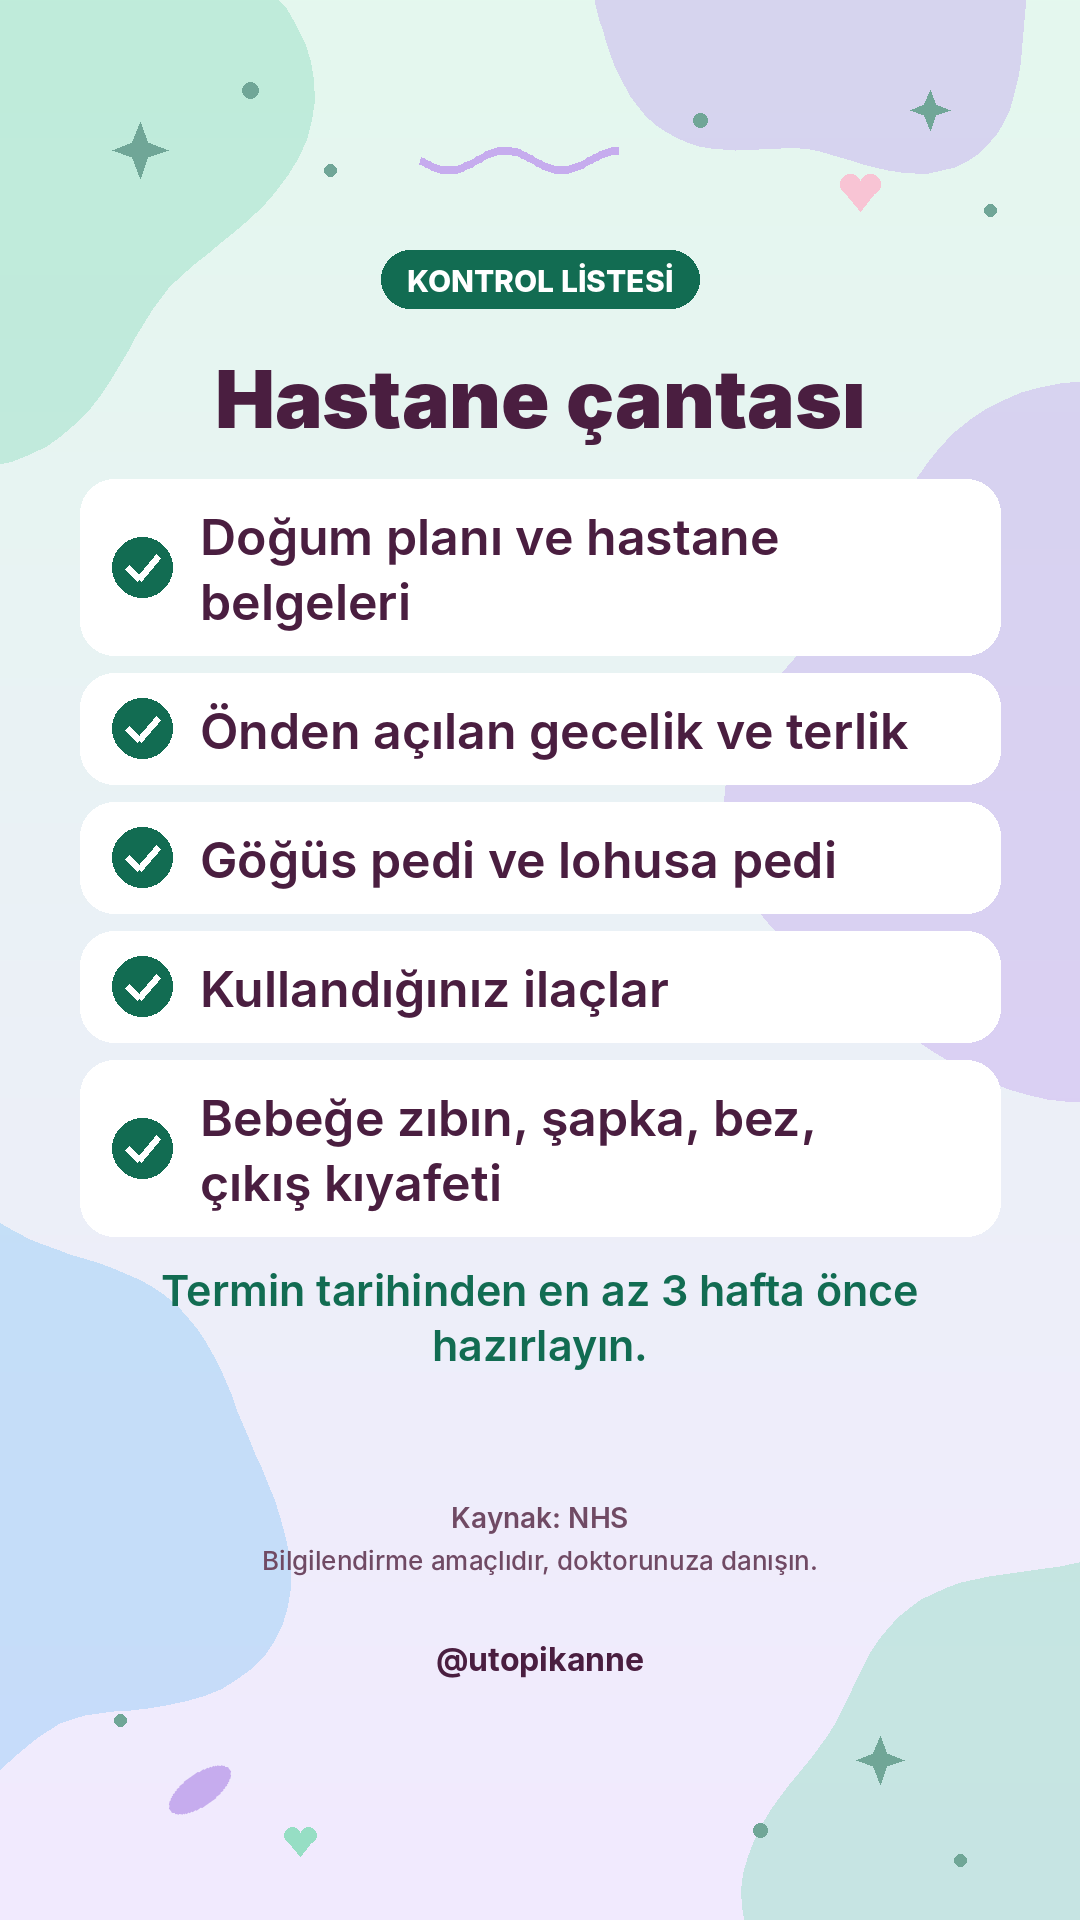
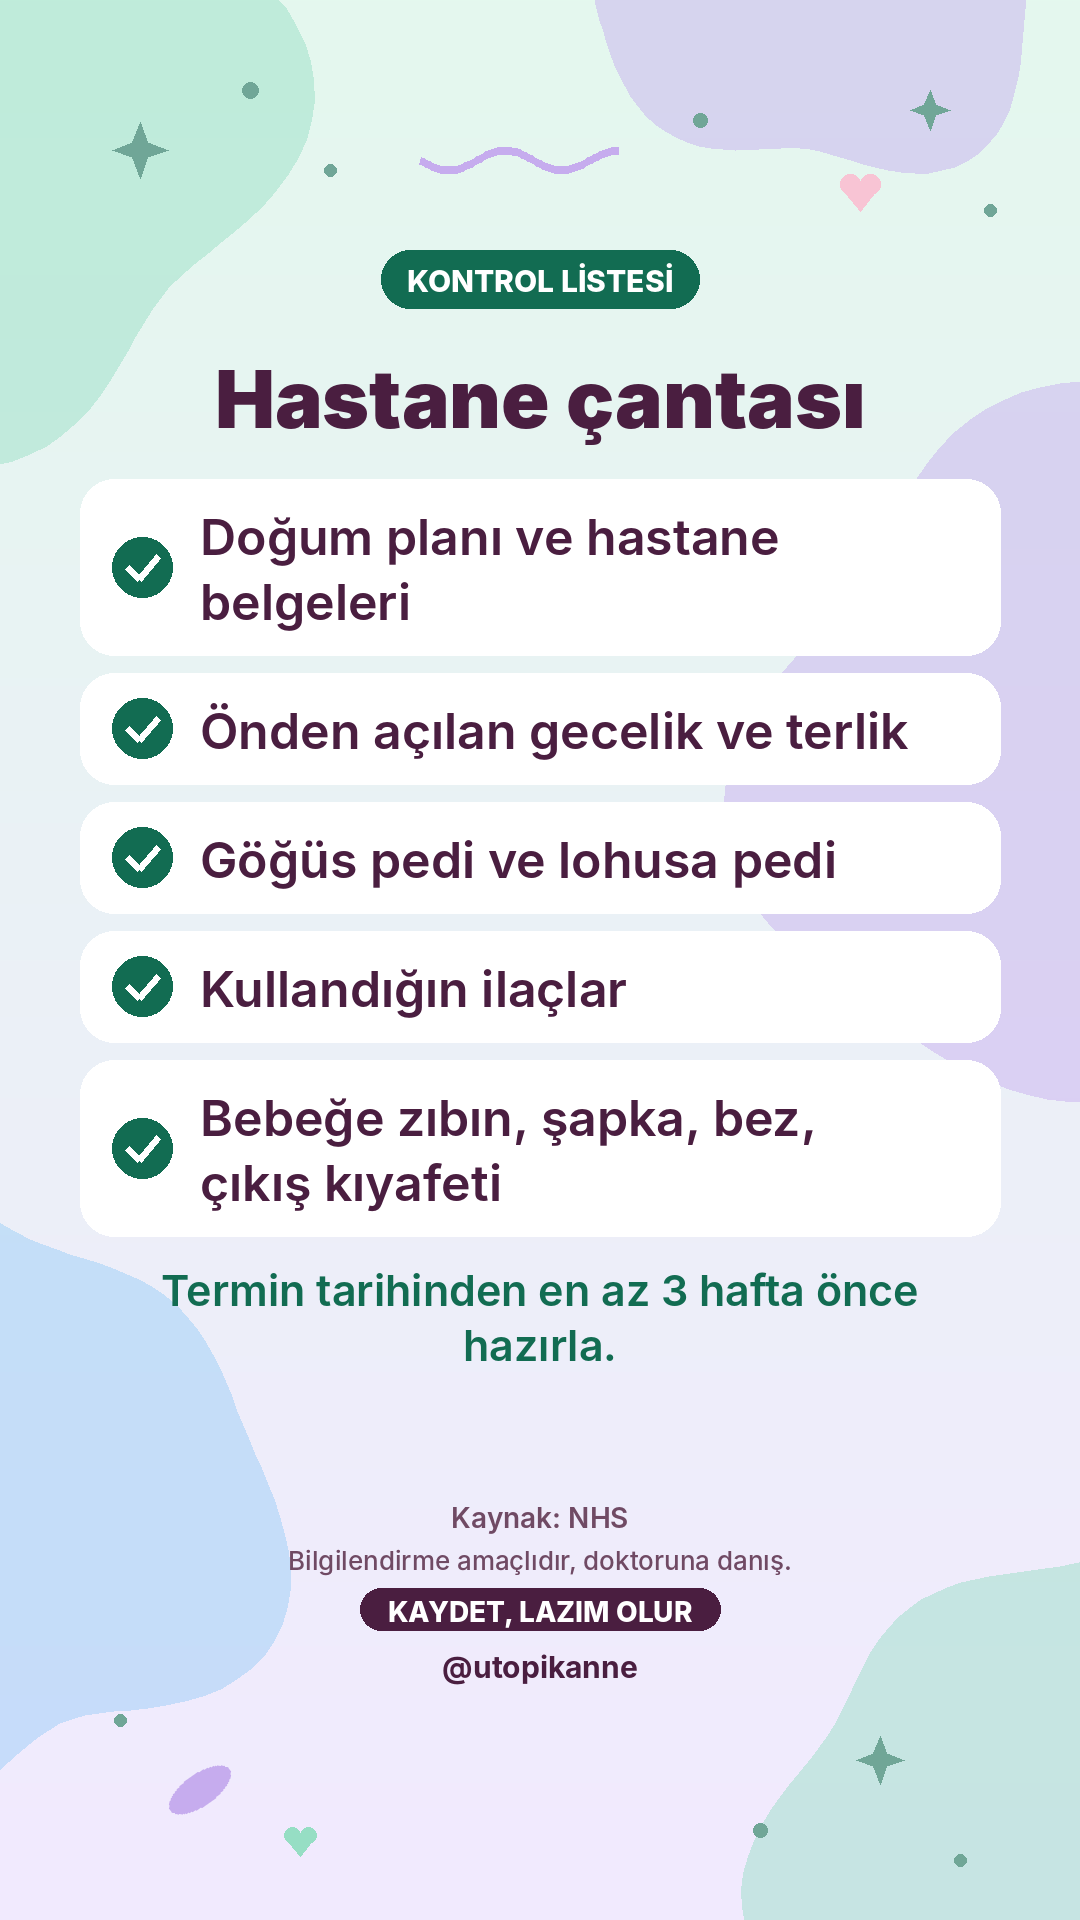
[utopikanne] 6 Kasım hikâyeleri (kalori şablonu ilk kez), 5 Kasım sen diliyle yeniden üretildi, kaydet/gönder çağrısı

Changed region(s): [[0.2444, 0.7812, 0.7333, 0.875], [0.4278, 0.5, 0.6111, 0.5312], [0.3972, 0.6875, 0.5806, 0.7188]]

diff --git a/araclar/anne_renkli.py b/araclar/anne_renkli.py
@@ -46,6 +46,7 @@ TEMA = {
     "kontrol": ((228, 248, 238), (242, 234, 255), [NANE, LILA, GOK], K_NANE, (230, 246, 238)),
     "liste": ((242, 234, 255), (228, 248, 238), [LILA, NANE, PUDRA], K_LILA, (240, 232, 254)),
     "dm": ((255, 230, 240), (240, 232, 255), [PUDRA, LILA, MERCAN], K_PEMBE, (255, 234, 242)),
+    "kalori": ((255, 246, 196), (222, 248, 236), [LIMON, NANE, SEFTALI], K_NANE, (255, 248, 214)),
 }
 
 
@@ -189,6 +190,9 @@ def golge_rengi(tur):
     return tuple(int(c[k] * .55 + alt[k] * .45) for k in range(3))
 
 
+CTA = None  # anne_gun her hikâye için ayarlar (ör. "Kaydet, lazım olur")
+
+
 def alt_bilgi(d, kaynak=None, not_metni=SAGLIK_NOT):
     if kaynak:
         f = font("SemiBold", 28)
@@ -199,6 +203,15 @@ def alt_bilgi(d, kaynak=None, not_metni=SAGLIK_NOT):
     if not_metni:
         f = font("Medium", 26)
         d.text(((W - d.textlength(not_metni, font=f)) / 2, 1544), not_metni, font=f, fill=SOLUK)
+    if CTA:
+        f = font("ExtraBold", 28)
+        t = tr_buyuk(CTA)
+        w = d.textlength(t, font=f) + 56
+        d.rounded_rectangle([(W - w) / 2, 1588, (W + w) / 2, 1630], radius=21, fill=MURDUM)
+        d.text(((W - d.textlength(t, font=f)) / 2, 1594), t, font=f, fill=BEYAZ)
+        f = font("Bold", 30)
+        d.text(((W - d.textlength(HANDLE, font=f)) / 2, 1648), HANDLE, font=f, fill=MURDUM)
+        return
     f = font("Bold", 32)
     d.text(((W - d.textlength(HANDLE, font=f)) / 2, 1640), HANDLE, font=f, fill=MURDUM)
 
@@ -681,7 +694,7 @@ def kontrol_listesi(path, etiket_metni, baslik, maddeler, kaynak, numarali=False
 def dm_cagrisi(path, soru, secenekler, cagri):
     def ciz(k):
         img, d = zemin("dm")
-        rozet(d, 0, 250, "Size soruyoruz", K_LILA, center=True)
+        rozet(d, 0, 250, "Sıra sende", K_LILA, center=True)
         konusma(d, 540, 460)
         y = yaz(d, 0, 640, soru, F("Black", 82, min(1, k + .1)), MURDUM, 920, 1.12, center=True) + 40
         f = F("ExtraBold", 46, k)
@@ -706,5 +719,39 @@ def dm_cagrisi(path, soru, secenekler, cagri):
         kalp(d, 540, y + 22, 28, K_PEMBE)
         y = yaz(d, 0, y + 78, cagri, F("SemiBold", 42, k), MURDUM, 880, 1.3, center=True)
         alt_bilgi(d, None, None)
+        return img, y
+    return sigdir(ciz, path)
+
+
+def terazi(d, cx, cy):
+    """Kendi vektör çizimimiz: mutfak terazisi + elma."""
+    d.rounded_rectangle([cx - 150, cy + 10, cx + 150, cy + 120], radius=34, fill=BEYAZ, outline=K_NANE, width=7)
+    d.rounded_rectangle([cx - 80, cy + 40, cx + 80, cy + 90], radius=14, fill=NANE)
+    d.text((cx - 56, cy + 40), "120 g", font=font("ExtraBold", 38), fill=K_NANE)
+    d.rounded_rectangle([cx - 170, cy - 8, cx + 170, cy + 14], radius=11, fill=K_NANE)
+    d.ellipse([cx - 62, cy - 120, cx + 62, cy - 4], fill=MERCAN)
+    d.rectangle([cx - 4, cy - 150, cx + 4, cy - 112], fill=(120, 80, 40))
+    yaprak(d, cx + 26, cy - 134, 14, K_NANE, -20)
+
+
+def kalori(path, seri, baslik, formul, ornek, bilgi, kaynak, not_metni):
+    """Kalori / besin değeri hap bilgisi (yetişkin; limon + nane). Kilo/diyet hedefi yok."""
+    def ciz(k):
+        img, d = zemin("kalori")
+        rozet(d, 0, 250, seri_no(seri, "Kalori"), K_NANE, center=True)
+        terazi(d, 540, 470)
+        y = yaz(d, 0, 640, baslik, F("Black", 80, min(1, k + .1)), MURDUM, 920, 1.1, center=True) + 30
+        # formül kartı (limon)
+        f = F("ExtraBold", 46, k)
+        th = yukseklik(d, formul, f, 820, 1.28)
+        h = 104 + th + 30
+        kart(d, y, y + h, fill=LIMON, r=40)
+        rozet(d, 130, y + 34, "FORMÜL", K_LIMON, s=28)
+        yaz(d, 0, y + 104, formul, f, MURDUM, 820, 1.28, center=True)
+        y += h + 24
+        y = bilgi_karti(d, y, "ÖRNEK", ornek, k, "kalori", s=40, wgt="SemiBold") + 4
+        y = bilgi_karti(d, y, "BİLİYOR MUSUN?", bilgi, k, "kalori", fill=(214, 244, 230), s=40, wgt="SemiBold",
+                        etiket_bg=K_NANE)
+        alt_bilgi(d, kaynak, not_metni)
         return img, y
     return sigdir(ciz, path)

diff --git a/araclar/anne_story.py b/araclar/anne_story.py
@@ -69,7 +69,7 @@ def iyi_geceler(path, baslik, bilgi, kaynak, alt="Tatlı rüyalar, yarın sabah 
     d.rounded_rectangle([90, kart_y, 990, kart_y + h], radius=44, fill=(250, 243, 235))
     d.rounded_rectangle([130, kart_y + 40, 130 + d.textlength("BİLİYOR MUYDUN?", font=font("ExtraBold", 30)) + 44, kart_y + 92],
                         radius=26, fill=SEFTALI)
-    d.text((152, kart_y + 50), "BİLİYOR MUYDUN?", font=font("ExtraBold", 30), fill=(255, 255, 255))
+    d.text((152, kart_y + 50), "BİLİYOR MUYDUN?", font=font("ExtraBold", 30), fill=(74, 30, 42))
     yy = yaz(d, (130, kart_y + 125), baslik, font("ExtraBold", 54), KAHVE, max_w=820, sp=1.25)
     yy = yaz(d, (130, yy + 8), bilgi, font("SemiBold", 46), KAHVE, max_w=820, sp=1.3)
     d.text((130, kart_y + h - 60 - (38 if saglik else 0)), "Kaynak: " + kaynak, font=font("Medium", 28), fill=SOLUK)

diff --git a/araclar/anne_gun.py b/araclar/anne_gun.py
@@ -21,6 +21,7 @@ def uret(tarih, o, cikis=None):
     os.makedirs(klasor, exist_ok=True)
     p = os.path.join(klasor, dosya_adi(o))
     s = o["sablon"]
+    R.CTA = o.get("cta")
     if s == "gunaydin":
         R.gunaydin(p, o["bilgi"], o["kaynak"])
     elif s == "tarif":
@@ -43,6 +44,9 @@ def uret(tarih, o, cikis=None):
     elif s in ("kontrol", "liste"):
         R.kontrol_listesi(p, o["etiket"], o["baslik"], o["maddeler"], o["kaynak"], numarali=(s == "liste"),
                           not_metni=o.get("not"))
+    elif s == "kalori":
+        R.kalori(p, o.get("seri"), o["baslik"], o["formul"], o["ornek"], o["bilgi"], o["kaynak"],
+                 o.get("not", "Bilgilendirme amaçlıdır."))
     elif s == "dm":
         R.dm_cagrisi(p, o["soru"], o["secenekler"], o["cagri"])
     elif s == "iyi_geceler":

diff --git a/hesaplar/utopikanne/gun/2026-11-06/kaynaklar.md b/hesaplar/utopikanne/gun/2026-11-06/kaynaklar.md
@@ -1,0 +1,24 @@
+# Kaynaklar – 2026-11-06 (Sağlık Doğrulayıcı onayı, düzeltmeler uygulandı)
+
+1. 08:30 6 ay gelişim (tanıdık yüzler, ayna, kahkaha) — ONAY
+   - https://www.cdc.gov/act-early/milestones-in-action/6-months.html
+2. 10:30 Armut püresi 6+ ay — DÜZELTİLDİ (meyvede "anne sütü/mama ile aç" yerine "biraz su"; saklama NHS kuralı: 1-2 saatte soğut, buzdolabında 2 gün ya da dondur)
+   - https://www.nhs.uk/start-for-life/baby/recipes-and-meal-ideas/steamed-apple-and-pear/
+   - https://www.nhs.uk/start-for-life/baby/weaning/what-to-feed-your-baby/from-around-6-months/
+   - https://www.nhs.uk/start-for-life/baby/weaning/safe-weaning/storing-and-reheating-food/
+3. 12:30 Hamilelik 8. hafta (~16 mm, ahududu; baş, gözler, kollar, bacaklar seçilebiliyor) — DÜZELTİLDİ ("parmaklar oluşuyor" çıkarıldı: NHS ayak parmaklarının henüz gelişmediğini yazıyor). Bulantı ipucu ONAY.
+   - https://www.nhs.uk/pregnancy/week-by-week/1-to-12/8-weeks/
+   - https://www.nhs.uk/pregnancy/related-conditions/common-symptoms/vomiting-and-morning-sickness/
+4. 14:30 Mama hazırlama — DÜZELTİLDİ (70°C, önceden kaynamış su kullanma, "sıcak değil ılık"; "2 saat" kuralı NHS sayfalarında olmadığı için çıkarıldı)
+   - https://www.nhs.uk/conditions/baby/breastfeeding-and-bottle-feeding/bottle-feeding/making-up-baby-formula
+   - https://www.nhs.uk/start-for-life/baby/feeding-your-baby/bottle-feeding/how-to-make-up-a-feed/
+5. 16:30 Kalori #1 (yetişkin) — ONAY: formül hesabı; çiğ muz 100 g = 89 kcal (USDA FDC 173944), 118 g × 0,89 ≈ 105 kcal. TürKomp muz değerine erişilemedi.
+   - USDA FoodData Central, Bananas, raw (FDC 173944)
+6. 18:30 Emzik temizliği — DÜZELTİLDİ (doğrulanamayan "6 ay sonra yalnız yıka", "ağzınla temizleme", "çatlaksa değiştir" çıkarıldı). Tatlıya batırma uyarısı ONAY.
+   - https://www.nhs.uk/conditions/pregnancy-and-baby/looking-after-your-infants-teeth/
+   - https://www.nhs.uk/conditions/baby/breastfeeding-and-bottle-feeding/bottle-feeding/sterilising-baby-bottles/
+   - https://www.nnuh.nhs.uk/publication/download/dummies-soothers-and-pacifiers-6
+7. 22:30 İlk 6 ay aynı odada kendi beşiği — ONAY
+   - https://www.nhs.uk/start-for-life/baby/baby-basics/newborn-and-baby-sleeping-advice-for-parents/safe-sleep-advice-for-babies
+
+Kesin kurallar: bal/inek sütü yok; tuz/şeker yok; boğulma uyarısı (10:30); doz/ilaç yok; kalori içeriği yetişkin, hedef/diyet dili yok; emzirmede "kendini kısıtlama" çerçevesi.

diff --git a/hesaplar/utopikanne/ders_notlari.md b/hesaplar/utopikanne/ders_notlari.md
@@ -7,3 +7,5 @@
 - 2026-11-02: Doğrulayıcı düzeltmeleri: AAP "By one month" → "1 aylık olunca"; NHS kaka sayısı "ilk haftalarda" kaydı; biberon "en kısa sürede" (hemen değil); AAP "4 months and older" → "4 aylıktan itibaren". Eski iyi geceler şablonunda bilgi ≤ ~100 karakter.
 - 2026-11-02 (gece turu): 3 Kas'ta 4 ek gıda hikâyesi vardı (tarif, bal efsanesi, kıvam, boğulma) → "aynı gün aynı konudan en fazla 2" kuralı ihlali. 14:30 → doğum sonrası #1 (baby blues), 16:30 → emzirme efsanesi ile değiştirildi. Bal efsanesi (gun/2026-11-03/story_1430_efsane.png) ve kıvam listesi (story_1630_liste.png) onaylı yedek; sonraki günlerde ek gıda kotası boşsa kullanılabilir. Plan yazılırken konu dağılımı saymalı.
 - 2026-11-03 (Analist): Takipçi 4.046 → 4.044 → 4.038 (1–3 Kas, −8). Hikâyeler yalnızca mevcut takipçiye ulaşır; büyüme için Melike Reels sıklığı kritik. İçgörü izni hâlâ #10.
+- 2026-11-04 (gece turu): Hitap kuralı (hesap sahibi): kişisel sayfa, "siz/biz" yok, "sen" dili. 5 Kas'ın 8 hikâyesi aynı id ile sen diliyle yeniden üretildi; DM rozeti "Size soruyoruz" → "Sıra sende". İyi geceler "BİLİYOR MUYDUN?" etiketi beyaz/şeftali 1.97:1 kontrasttaydı → koyu yazı (7:1).
+- 2026-11-04 (Doğrulayıcı): NHS 8. haftada parmak yok (ayak parmakları gelişmedi); mama için "2 saat" kuralı NHS sayfalarında yok; meyve püresini anne sütü/mamayla açma önerisi NHS'te yalnız tahıl için; emzik için NHS'te ayrı sayfa yok, yalnızca "tatlıya batırma" doğrulanabildi.
